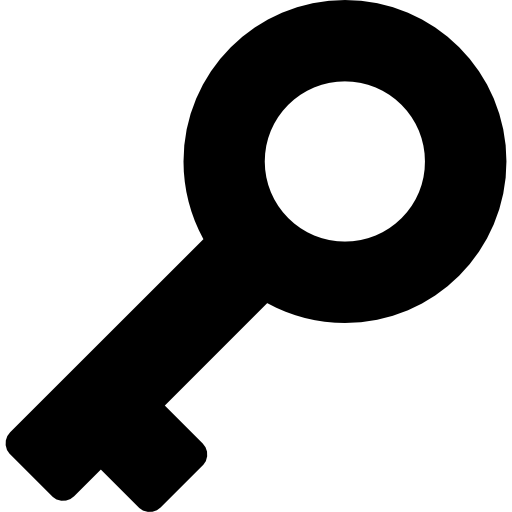
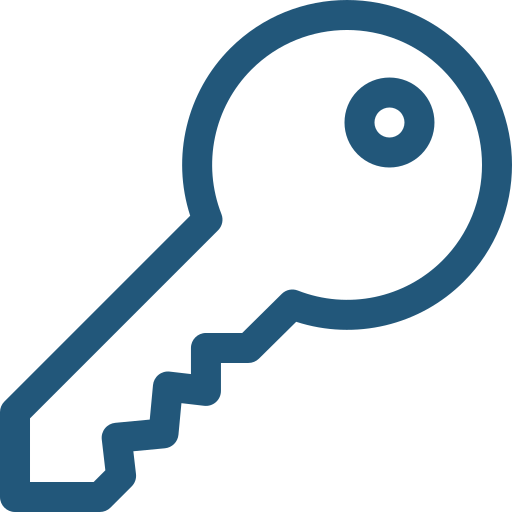
More style changes yippee

diff --git a/src/UI/Pages/MediaPage.java b/src/UI/Pages/MediaPage.java
@@ -208,6 +208,13 @@ public class MediaPage extends Page {
 		titleScrollPane.getVerticalScrollBar().setUnitIncrement(8);
 		titleScrollPane.getHorizontalScrollBar().setUnitIncrement(8);
 		titleScrollPane.setBorder(BorderFactory.createEmptyBorder());
+		titleScrollPane.getVerticalScrollBar().setUI(new BasicScrollBarUI() {
+			@Override
+			protected void configureScrollBarColors() {
+				this.thumbColor = Style.BORDER_COLOR;
+				this.trackColor = Style.TEA_GREEN;
+			}
+		});
 
 		showType = new JLabel("Blank Type");
 		showType.setForeground(Style.TEA_GREEN);
@@ -229,6 +236,13 @@ public class MediaPage extends Page {
 		descScrollPane.getVerticalScrollBar().setUnitIncrement(16);
 		descScrollPane.getHorizontalScrollBar().setUnitIncrement(8);
 		descScrollPane.setBorder(BorderFactory.createEmptyBorder());
+		descScrollPane.getVerticalScrollBar().setUI(new BasicScrollBarUI() {
+			@Override
+			protected void configureScrollBarColors() {
+				this.thumbColor = Style.BORDER_COLOR;
+				this.trackColor = Style.TEA_GREEN;
+			}
+		});
 
 		selectorsContainerPanel = new JPanel(new GridBagLayout());
 		selectorsContainerPanel.setBackground(Style.BORDER_COLOR);
@@ -443,6 +457,7 @@ public class MediaPage extends Page {
 
 			JScrollPane commentContainer = new JScrollPane(comment);
 			commentContainer.setPreferredSize(new Dimension(400, 150));
+			
 
 			int result = JOptionPane.showConfirmDialog(null, commentContainer, "Add/Edit Review Comment",
 					JOptionPane.OK_CANCEL_OPTION, JOptionPane.PLAIN_MESSAGE);

diff --git a/src/UI/Pages/SettingsPage.java b/src/UI/Pages/SettingsPage.java
@@ -117,7 +117,7 @@ public class SettingsPage extends Page {
 		impMediaButton.setFont(Style.BASE_FONT_BIG);
 		delUserButton.setFont(Style.BASE_FONT_BIG);
 		adminButton.setFont(Style.BASE_FONT_BIG);
-		addApiKeyButton.setFont(Style.BASE_FONT);
+		addApiKeyButton.setFont(Style.BASE_FONT_BIG);
 
 		// Colours
 		chngUserButton.setBackground(Style.LIGHT_GREEN);

diff --git a/src/UI/Pages/AdminMediaPage.java b/src/UI/Pages/AdminMediaPage.java
@@ -285,7 +285,7 @@ public class AdminMediaPage extends AdminUserPage {
 	}
 
 	private void createWipeBtn() {
-		wipeMediaBtn = new JButton("Wipe Media Data");
+		wipeMediaBtn = new JButton("Wipe All Media");
 		wipeMediaBtn.setFont(Style.BASE_FONT);
 		wipeMediaBtn.setBackground(Style.LIGHT_GREEN);
 		wipeMediaBtn.setForeground(Style.BALTIC_BLUE);

diff --git a/src/UI/Pages/AdminUserPage.java b/src/UI/Pages/AdminUserPage.java
@@ -146,7 +146,7 @@ public class AdminUserPage extends Page {
 	}
 
 	private void createWipeBtn() {
-		wipeUsersBtn = new JButton("Wipe User Data");
+		wipeUsersBtn = new JButton("Wipe All Users");
 		wipeUsersBtn.setFont(Style.BASE_FONT);
 		wipeUsersBtn.setBackground(Style.LIGHT_GREEN);
 		wipeUsersBtn.setForeground(Style.BALTIC_BLUE);
